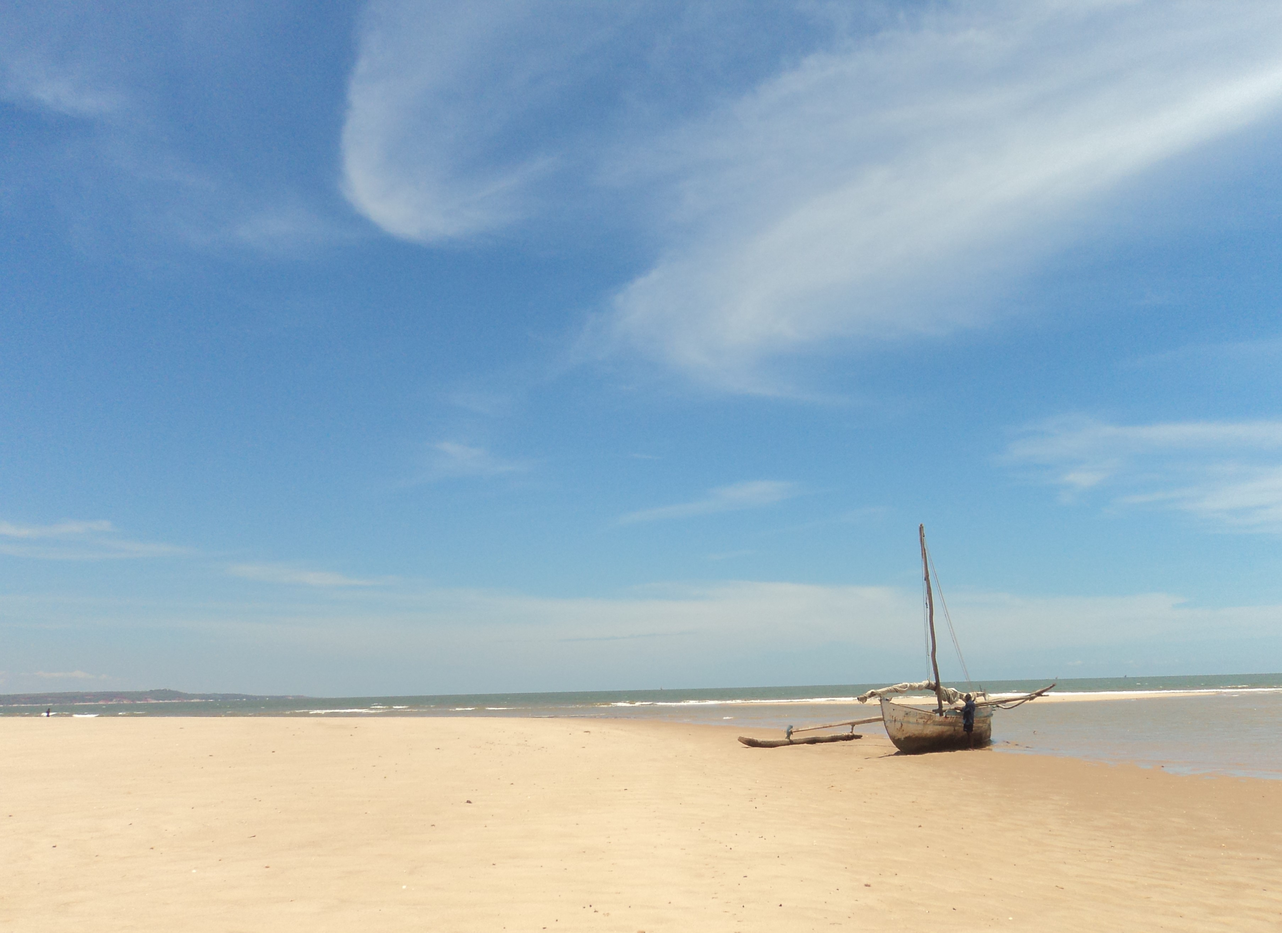
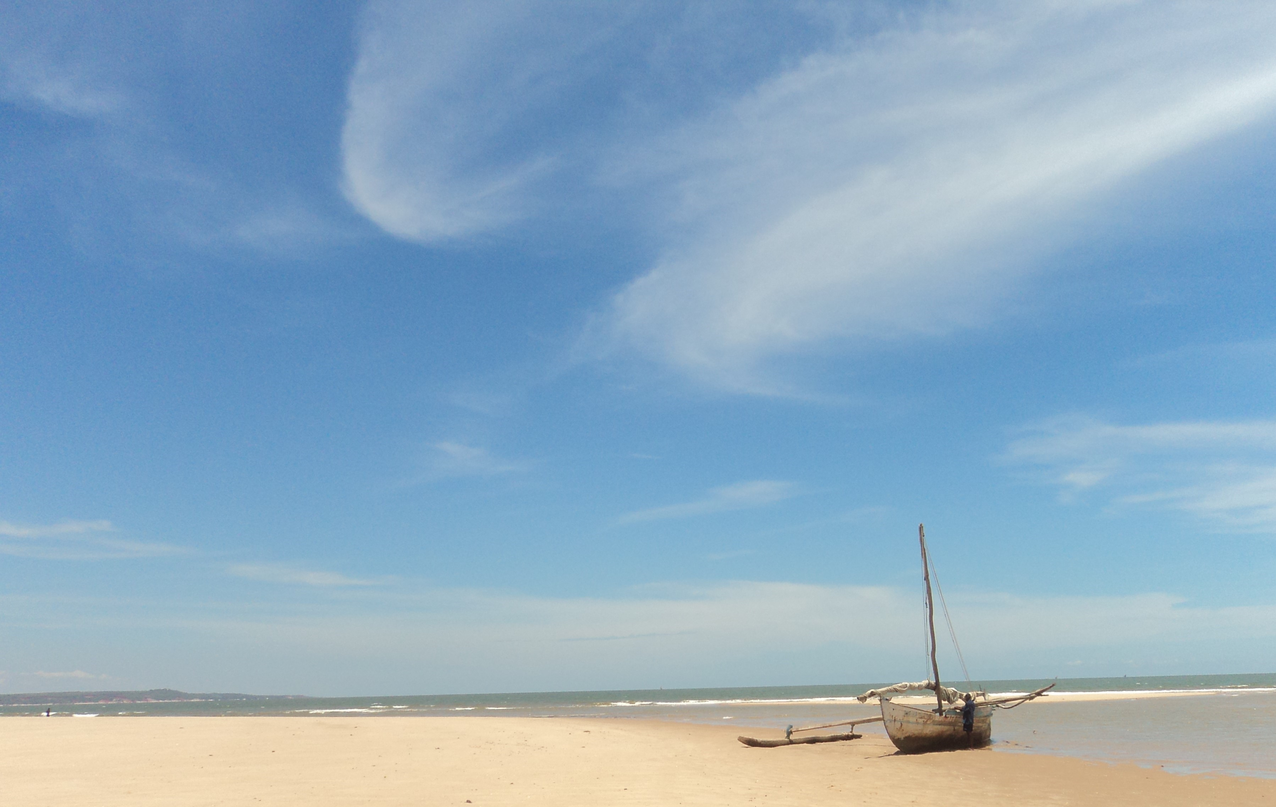
New

diff --git a/hydroshare.css b/hydroshare.css
@@ -1,5 +1,5 @@
 #mymap {
-    height: 500px;
+    height: 600px;
     width: 80%;
     margin: auto;
     margin-top: 50px;
@@ -30,5 +30,5 @@ body {
     background-image: url("beach1.jpg");
     background-repeat: no-repeat;
     background-size: cover;
-    background-position: 20%, 200%;
+    background-position: 50%, 200%;
 }
